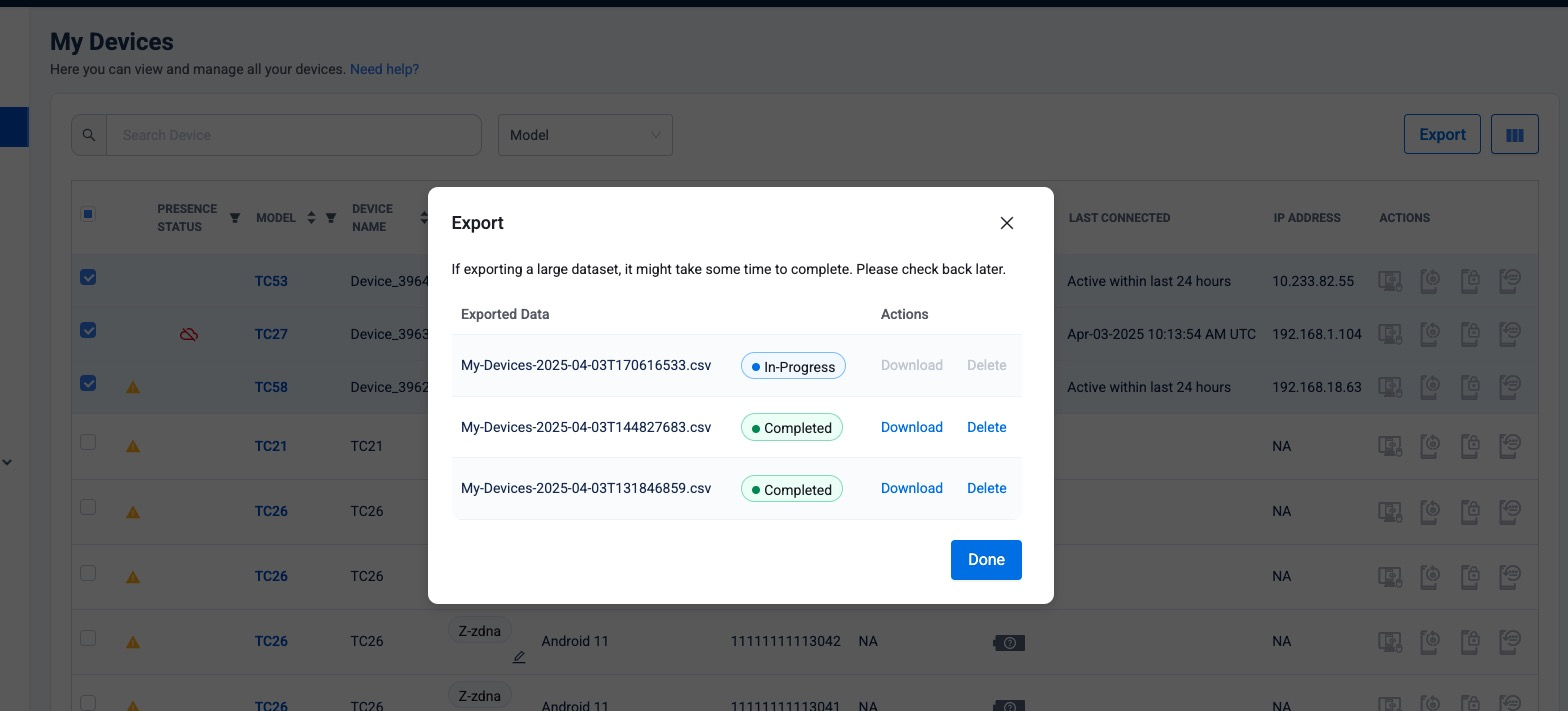
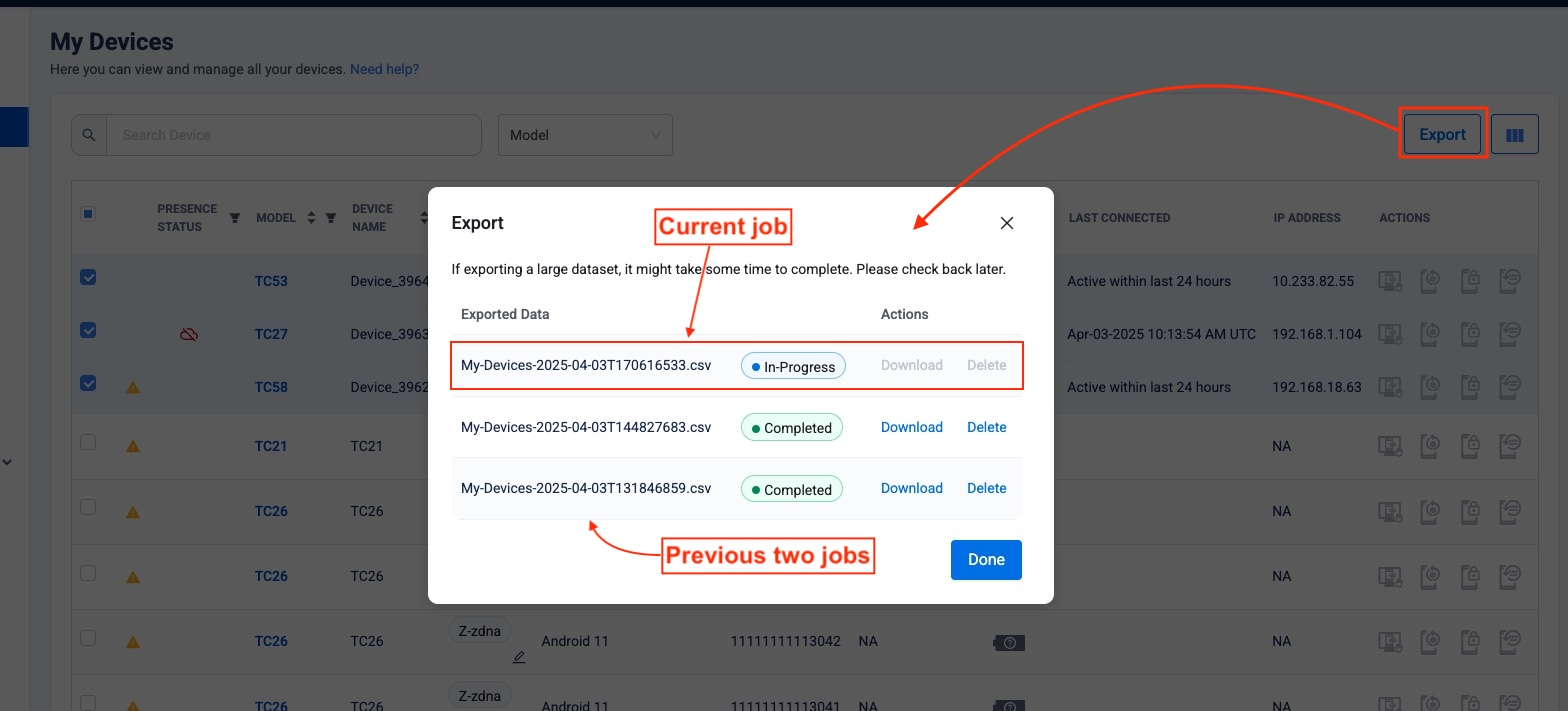
[TUT-107777] ZDNA 5.3 updates, per eng, RN, validation

diff --git a/zebradna/5-3/usage/index.html b/zebradna/5-3/usage/index.html
@@ -475,27 +475,27 @@ PLAY STORE
 <h4 id="availableactions" class="anchor"><a class="heading-anchor" href="#availableactions"><span></span></a>Available Actions</h4>
 
 <ul>
-<li><strong>Remote Support -</strong> initiates a remote-control session with the device </li>
+<li><strong>Remote Support -</strong> initiates a remote-control session with the device.</li>
 
-<li><strong>Reboot Device -</strong> quits all apps and restarts the device </li>
+<li><strong>Reboot Device -</strong> quits all apps and restarts the device. </li>
 
-<li><strong>Lock Device -</strong> immediately activates the Lock Screen</li>
+<li><strong>Lock Device -</strong> immediately activates the Lock Screen.</li>
 
-<li><strong>Reset Device Passcode</strong>* <strong>-</strong> removes any existing swipe pattern, PIN or password </li>
+<li><strong>Reset Device Passcode</strong>* <strong>-</strong> removes any existing swipe pattern, PIN or password. </li>
 
-<li><strong>Submit XML</strong> <i>†</i> <strong>-</strong> presents a text box for pasting machine-generated XML and sending to selected device(s) for execution </li>
+<li><strong>Submit XML</strong> <i>†</i> <strong>-</strong> presents a text box for pasting machine-generated XML and sending to selected device(s) for execution. </li>
 
-<li><strong>Wipe Device -</strong> resets the device to its factory-fresh state, <strong>permanently erasing all user apps and data</strong></li>
+<li><strong>Wipe Device -</strong> resets the device to its factory-fresh state, <strong>permanently erasing all user apps and data</strong>.</li>
 
 <li><strong>Delete Device</strong> <i>‡</i> <strong>-</strong> removes zDNA client app from device, de-enrolls device from ZDNA system; other apps and settings on device remain unchanged.<br><strong>Optionally performs a Factory Reset</strong>, returning device to factory-fresh state.   </li>
 
-<li><strong>Update zDNA Client -</strong> checks the client app on the device and pushes an update, if necessary </li>
+<li><strong>Update zDNA Client -</strong> checks the client app on the device and pushes an update, if necessary. </li>
 
-<li><strong>Reapply -</strong> redeploys a settings Profile, usually after addressing "Issues" or a change of device availability (expires after 7 days)</li>
+<li><strong>Reapply -</strong> redeploys a settings Profile, usually after addressing "Issues" or a change of device availability (expires after 7 days).</li>
 
-<li><strong>Locate Device</strong>** <strong>-</strong> gathers GPS data from a selected device, opens a new tab and displays device location on a Google Map</li>
+<li><strong>Locate Device</strong>** <strong>-</strong> gathers GPS data from a selected device, opens a new tab and displays device location on a Google Map.</li>
 
-<li><strong>Export -</strong> writes device information from as many as 10,000 devices to a <code>.csv</code> file on the host computer</li>
+<li><strong>Export -</strong> writes device information from all devices in the My Devices section (10,000 max.) to a <code>.csv</code> file on the host computer. <a href="#exportmydevicesdata">See next section</a>.</li>
 </ul>
 
 <p><i><font size="1" color="grey">* Has no effect if user changed passcode before ZDNA enrollment. To regain control, perform an Enterprise Reset on device and re-enroll.<br>† No feedback is provided as to the success or failure of this action.<br>‡ Deleted devices could remain visible in deployment detail documents if the device was selected for deployment before being deleted.<br>** A license is required for this feature. Supported only on GMS devices without restrictions. Learn <a href="/mx/gmsmgr/#gmsrestrictedmode">about GMS Restricted Mode</a>. <b>NOT supported on WS50.</b></font></i></p>
@@ -504,17 +504,52 @@ PLAY STORE
 
 <h3 id="exportmydevicesdata" class="anchor"><a class="heading-anchor" href="#exportmydevicesdata"><span></span></a>Export My Devices Data</h3>
 
-<p><strong>Select one or more devices from which to export evice data and click the "Export" button</strong>: 
+<ol>
+<li><p><strong>On My Devices page, click the "Export" button</strong> to begin: 
 <img alt="image" style="height:350px" src="53_export_dialog.jpg">
+<em>The current export job status is displayed along with the two most recently completed export jobs (if applicable)</em>.<br> 
 <em>Click image to enlarge; ESC to exit.</em>
-<br></p>
+<br></p></li>
 
-<p>Once data collection for each device is completed, <strong>click "Download" to invoke the Save dialog</strong>: 
+<li><p>Status changes from "In-Progress" to "Completed" once data collection is complete.<br> 
+<strong>Click "Download" to select a location for the completed data file</strong>: 
 <img alt="image" style="height:150px" src="53_export_saveAs.jpg">
 <em>Click image to enlarge; ESC to exit.</em>
-<br></p>
+<br></p></li>
+</ol>
 
[1 lines of base64/hex data omitted]
+<p><i class="fa fa-check-circle" style="color:#27AE60;"></i> My Devices data for all devices (10,000 max.) is saved to a <code>.csv</code> file in the selected location for further processing and/or backup. Exports are subject to the behaviors listed below.</p>
+
+<h4 id="exportnotes" class="anchor"><a class="heading-anchor" href="#exportnotes"><span></span></a>Export Notes</h4>
+
+<ul>
+<li>Export function collects device information for all devices on the My Devices page (10,000 devices max.).</li>
+
+<li><strong>All device information is exported</strong> regardless of device selection, shown/hidden columns, filters, etc.</li>
+
+<li>The download button for each dataset is activated after all My Devices data is collected.  </li>
+
+<li><strong>The DNA Cloud system retains a maximum of three export-job files</strong>; older files are deleted automatically. </li>
+
+<li><strong>Data is saved as a</strong> <code>.csv</code> <strong>file</strong> to the selected location on the host computer.   </li>
+
+<li><strong>Export jobs are user-specific</strong>; each user sees only their own list of datasets.   </li>
+
+<li><strong>Export button is disabled</strong> if no My Devices data has been created. </li>
+
+<li><strong>File generation status messages</strong>: 
+
+
+<ul>
+<li><strong>In-Progress</strong>: The export file is being generated.</li>
+
+<li><strong>Failed</strong>: An error occurred while generating the export file. Try again. </li>
+
+<li><strong>Completed</strong>: The export file was generated successfully and is available for download. </li></ul>
+</li>
+
+<li>Attempting to initiate an export while another is "In-Progress" results in an error.   </li>
+</ul>
 
 <hr>
 
@@ -1257,9 +1292,10 @@ https://jira.zebra.com/browse/DLM-8112
 
 <h3 id="zebracollection" class="anchor"><a class="heading-anchor" href="#zebracollection"><span></span></a>Zebra Collection</h3>
 
-<p><i class="fa fa-exclamation-triangle" style="color:#FFA500;"></i> <strong>Enrollment in a third-party EMM <u>blocks app installation (including Zebra apps) from unknown sources</u></strong> unless unblocked by the EMM.<br></p>
+<p><i class="fa fa-exclamation-triangle" style="color:#FFA500;"></i> <strong>Enrollment in a third-party EMM <u>blocks app installation (including Zebra apps) from unknown sources</u></strong> unless unblocked by the EMM.<br>
+<i class="fa fa-exclamation-circle" style="color:#FF0000;"></i> <strong>Zebra Collection apps must support the Android version on the device to which they are deployed</strong>.</p>
 
-<h4 id="zebracollectiontechdocs" class="anchor"><a class="heading-anchor" href="#zebracollectiontechdocs"><span></span></a>Zebra Collection TechDocs:</h4>
+<h4 id="linkstotechdocsforzebracollectionapps" class="anchor"><a class="heading-anchor" href="#linkstotechdocsforzebracollectionapps"><span></span></a>Links to TechDocs for Zebra Collection apps:</h4>
 
 <ul>
 <li><strong><a href="/devicecentral">Device Central</a></strong></li>
@@ -1302,17 +1338,20 @@ Alternatively, click "New Setup" to choose from a list of Zebra apps:
 &nbsp;&nbsp;&nbsp;&nbsp;&nbsp; d. <strong>Configure each parameter's options</strong> as needed, scrolling down if necessary.<br>
 <i class="fa fa-exclamation-triangle" style="color:#FFA500;"></i> Search box resets with any new input.<br>
 <i class="fa fa-check-circle" style="color:#27AE60;"></i> <strong>Changes to managed configurations DO NOT cause device reboot</strong> (ZDNA 3.1+).
-<img alt="image" style="height:350px" src="31_zva_mc.jpg">
-<em>Click image to enlarge; ESC to exit.</em>
-<br></p></li>
+<img alt="image" style="height:350px" src="31_zva_mc.jpg"></p></li>
+</ol>
 
+<p><em>Click image to enlarge; ESC to exit.</em>
+<br></p>
+
+<ol>
 <li><p><strong>To include configuration and/or data file(s)</strong>, scroll down (if needed) to expose app-related files dialog:
 <img alt="image" style="height:350px" src="zva_03a.png">
 <em>Click image to enlarge; ESC to exit.</em>
 <br></p></li>
 
 <li><p><strong>Enter the name of the configuration file and its desired location on the device</strong>.<br>
-<strong>Click "Upload"</strong> to store the file on zDNA Clound in preparation for deployment.<br>
+<strong>Click "Upload"</strong> to store the file on DNA Cloud in preparation for deployment.<br>
 When finished uploading files <strong>click Next</strong> to proceed: <br>
 <img alt="image" style="height:350px" src="zva_03b.png">
 <em>Click image to enlarge; ESC to exit.</em>

diff --git a/zebradna/5-3/about/index.html b/zebradna/5-3/about/index.html
@@ -272,22 +272,22 @@
 <h2 id="newinzdna53" class="anchor"><a class="heading-anchor" href="#newinzdna53"><span></span></a>New in ZDNA 5.3</h2>
 
 <ul>
-<li><strong>Introduces DNA Cloud client for Android 14</strong><i>†</i></li>
+<li><strong>Introduces DNA Cloud client for devices running Android 14</strong><i>†</i></li>
 
-<li><strong>Adds export capability</strong> of My Devices data: 
+<li><strong>Adds the ability to <a href="../usage/#exportmydevicesdata">export My Devices data</a></strong>: 
 <img alt="image" style="height:150px" src="53_export_myDevices.jpg">
 <em>Click image to enlarge; ESC to exit</em>.</li>
 
-<li>Adds support for TC58e devices </li>
+<li>Adds support for TC58e devices running Android 13</li>
 
-<li>Additional UI enhancements</li>
+<li>Time limit added for <a href="../support/rxlogger/">RxLogger</a> jobs working on unresponsive devices</li>
 </ul>
 
-<p><i><font size="1" color="grey">† For compatibility with installation on devices running Android 14, App Setup Profiles created with DNA Cloud 5.2 (or older) must be opened in DNA Cloud 5.3 (or later) using the "Edit" function and re-saved and/or redeployed. Profiles newly created with ZDNA 5.3 are unaffected.</font></i></p>
+<p><i><font size="1" color="grey">† Changes are required to current App Setup Profiles. <a href="#knownissues">See Known Issues</a>, below.</font></i></p>
 
-<!-- 4/10/25 per RN, but maybe not
-* Supports Wireless Insights 1.1  
--->
+<blockquote>
+  <p><i class="fa fa-check-circle" style="color:#27AE60;"></i> Also see <strong><a href="/lifeguard/a14/">How to upgrade Zebra devices to Android 14</a></strong>.</p>
+</blockquote>
 
 <hr>
 
@@ -322,7 +322,7 @@
 </tr>
 
 <tr>
-<td>SDM660 (all; <a href="https://supportcommunity.zebra.com/s/article/000022440?language=en_US">see device list)</a></td>
+<td>SDM660 (all; <a href="https://supportcommunity.zebra.com/s/article/000022440?language=en_US">see device list</a>)</td>
 <td><code>11-26-05.00-RG-U00</code> (or later)</td>
 </tr>
 
@@ -369,7 +369,7 @@
 </tr>
 
 <tr>
-<td>SDM660 (all; <a href="https://supportcommunity.zebra.com/s/article/000022440?language=en_US">see device list)</a></td>
+<td>SDM660 (all; <a href="https://supportcommunity.zebra.com/s/article/000022440?language=en_US">see device list</a>)</td>
 <td><code>13-18-19.00-TG-U00</code> (or later)</td>
 </tr>
 
@@ -402,15 +402,12 @@
 </tr>
 
 <tr>
-<td>SDM660 (all; <a href="https://supportcommunity.zebra.com/s/article/000022440?language=en_US">see device list)</a></td>
+<td>SDM660 (all; <a href="https://supportcommunity.zebra.com/s/article/000022440?language=en_US">see device list</a>)</td>
 <td><code>14-23-05.00-UG-U00</code> (or later)</td>
 </tr>
 
 </tbody></table>
 
-
-<p>
-</p>
 
 <p><i class="fa fa-check-circle" style="color:#27AE60;"></i> See all <a href="https://www.zebra.com/us/en/support-downloads/software/utilities/dna-cloud.html">devices supported by Zebra DNA Cloud</a><br>
 <i class="fa fa-check-circle" style="color:#27AE60;"></i> See all <a href="https://supportcommunity.zebra.com/s/article/000022440?language=en_US">Zebra devices by platform</a></p>
@@ -432,18 +429,30 @@
 
 <hr>
 
-<!-- known issue per eng 11.5.em
-
-* `NEW` Profile doesn't have license over all status should display as " Unknown" but it remains in previous state. -->
-
 <p><a id="knownissues"></a></p>
 
 <h4 id="iclassfafaexclamationtrianglestylecolorffa500iknownissues" class="anchor"><a class="heading-anchor" href="#iclassfafaexclamationtrianglestylecolorffa500iknownissues"><span></span></a><i class="fa fa-exclamation-triangle" style="color:#FFA500;"></i> <strong>KNOWN ISSUES</strong></h4>
 
 <ul>
+<li><strong><code>NEW:</code> App Setup Profiles created with DNA Cloud 5.2 (or older) must be modified for devices running Android 14</strong>: 
+
+
+<ul>
+<li><strong>Use the "Edit" function in DNA Cloud 5.3</strong> (or later) to open the existing Profile(s). </li>
+
+<li><strong>Redeploy the Profile(s)</strong> to Android 14 devices.<br>
+<i class="fa fa-check-circle" style="color:#27AE60;"></i> Profiles newly created with ZDNA 5.3 are unaffected.</li></ul>
+</li>
+
+<li><strong><code>NEW:</code> A renamed Group does not immediately appear in Group drop-down lists</strong>.</li>
+
+<li><strong><code>NEW:</code> Status of a deployment shows as "In-Progress" despite one or more devices in "Issue" state</strong>. </li>
+
+<li><strong><code>NEW:</code> License "IN USE" counter is incremented despite failure to allocate license to device</strong>. </li>
+
 <li><strong>The “Lock Screen Visibility” feature of OEMConfig 13.3.0.5 (and later) is NOT supported</strong>. If enabled on the device, the lock screen appears blank on the ZDNA console during Remote Support sessions.</li>
 
-<li><strong><code>NEW:</code> Devices enrolled in ZDNA 4.2 using a barcode created with a <u><em>prior</em></u> ZDNA version do not enroll correctly</strong>, and appear with a <i class="fa fa-exclamation-triangle" style="color:#FFA500;"></i> icon.<br> 
+<li><strong>Devices enrolled in ZDNA 4.2 using a barcode created with a <u><em>prior</em></u> ZDNA version do not enroll correctly</strong>, and appear with a <i class="fa fa-exclamation-triangle" style="color:#FFA500;"></i> icon.<br> 
 <strong>To resolve this issue</strong>:<br>
 
 

diff --git a/zebradna/5-3/support/rxlogger/index.html b/zebradna/5-3/support/rxlogger/index.html
@@ -348,7 +348,8 @@ When all data is entered, <strong>click "Next" to continue</strong>:
 </ol>
 
 <blockquote>
-  <p><i class="fa fa-check-circle" style="color:#27AE60;"></i> After the capture period has ended, logs are copied to the specified FTP/S host and deleted from device(s). </p>
+  <p><i class="fa fa-check-circle" style="color:#27AE60;"></i> After the capture period has ended, logs are copied to the specified FTP/S host and deleted from device(s).<br>
+  <i class="fa fa-exclamation-triangle" style="color:#FFA500;"></i> For devices that remain offline for 10 minutes or longer, the system stops attempting to connect and sets Job Status to “Issue” and Status Details to “Device is offline.” </p>
 </blockquote>
 
 <hr>

diff --git a/zebradna/5-3/setup/index.html b/zebradna/5-3/setup/index.html
@@ -1195,7 +1195,7 @@ This enrolls the device in ZDNA and activates LifeGuard services. </p></li>
 <td></td>
 <td>License Group</td>
 <td>List of Groups to which to allocate licenses.</td>
-<td>30</td>
+<td>10</td>
 </tr>
 
 <tr>
